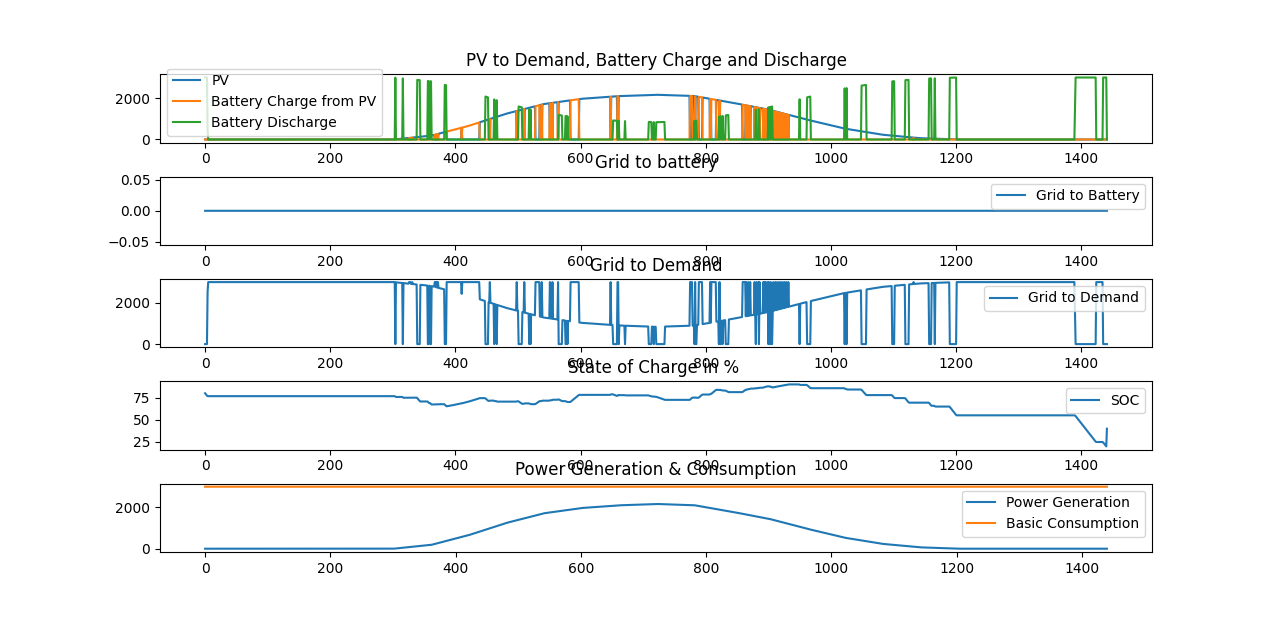
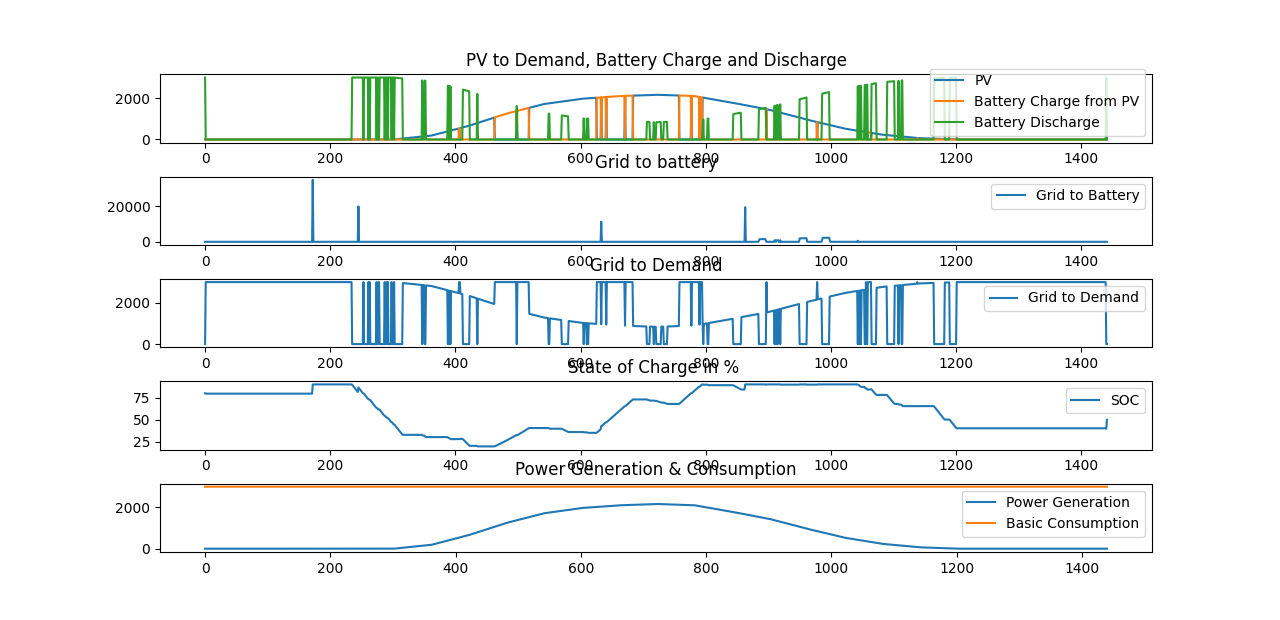
small update

diff --git a/Storage Model (Gurobi, IPOPT, WORHP).py b/Storage Model (Gurobi, IPOPT, WORHP).py
@@ -31,9 +31,10 @@ Cbat = 5000 * 60       #Capacity of the Battery
 eff = 0.9              #Efficiency of the Battery
 h = 1.0
 
+n = len(PV)
 # Create variables in the 
 
-model.IndexSet = RangeSet(0,len(PV))
+model.IndexSet = RangeSet(0, n)
 
 # Initialize indexed variables
 model.u0 = Var(model.IndexSet, within = NonNegativeReals, initialize = 0)
@@ -49,9 +50,9 @@ model.const = ConstraintList()
 
 
 model.const.add(model.SOC[0] == 0.8)
-model.const.add(model.SOC[len(PV)] == 0.4)
+model.const.add(model.SOC[n- 1] == 0.4)
 #Loop 0 to n-1
-for i in range(0, len(PV)):
+for i in range(0, n):
 
     model.const.add(model.u0[i] + model.u1[i] + model.grid_in[i] - PV[i]<= 0)
     model.const.add(model.u0[i] + model.u2[i] +model.grid_out[i] - D[i]<= 0)
@@ -64,7 +65,7 @@ for i in range(0, len(PV)):
     
 
 # Loop 0 to n-2
-for i in range(0, (len(PV)-1)):
+for i in range(0, n-1):
 
     model.const.add((model.SOC[i + 1]- model.SOC[i] - (h / 2) * (((model.u1[i + 1] + model.u3[i + 1] - model.u2[i + 1]) * eff )/ Cbat + ((model.u1[i] + model.u3[i + 1] - model.u2[i]) * eff )/ Cbat)) == 0)
 
@@ -75,13 +76,13 @@ for i in range(0, (len(PV)-1)):
 def objective_rule(model):
     return sum(
         (D[i] - model.u0[i] - model.u2[i]+ model.u3[i]) * priceImport - (PV[i] - model.u0[i] - model.u1[i]) * priceExport 
-        for i in range(len(PV))
+        for i in range(0, n)
     )
 model.obj = Objective(rule=objective_rule, sense=minimize)
 
 
 # Solve the model...
-solver = SolverFactory('scip')
+solver = SolverFactory('gurobi')
 
 # Specify the SCIP options
 
@@ -115,8 +116,8 @@ SOC_percent = [val * 100 for val in SOC_values]
 
 
 # Create x-axis values (assuming index set)
-x_values = list(range(len(u0_values)))
-PV__values = list(range(len(PV)))
+x_values = list(range(0, len(u0_values)))
+PV__values = list(range(0, n))
 
 #Declare Rows, columns and Figure size of subplots
 fig, axs = plt.subplots(nrows=5, ncols=1, figsize=(10, 10))
